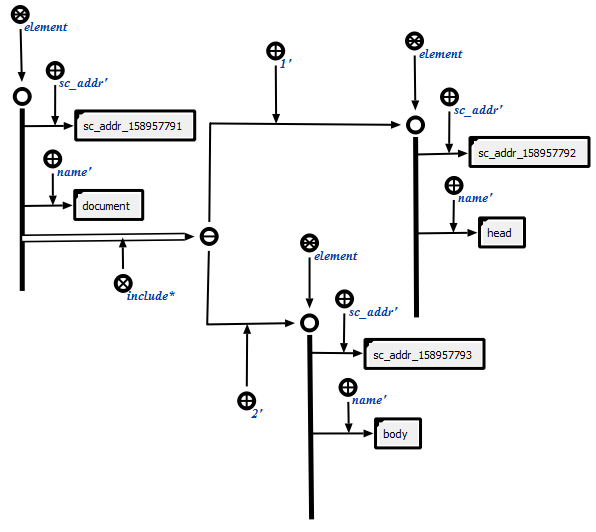
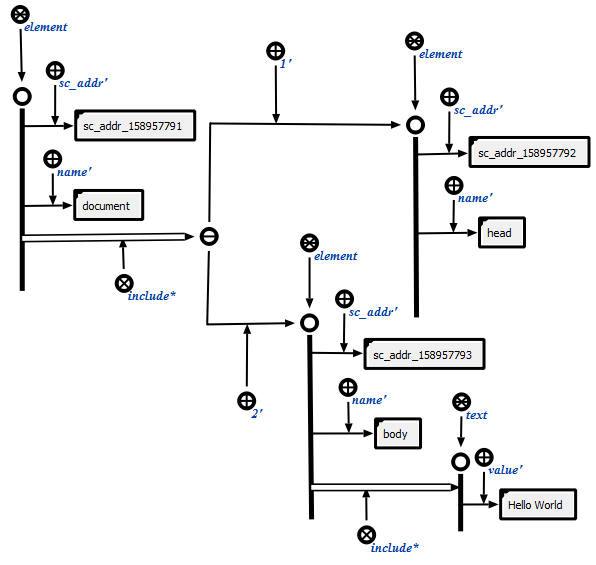
wiki: added example-2

diff --git a/wiki/example-1/1.html b/wiki/example-1/1.html
@@ -1,5 +1,5 @@
 <!DOCTYPE html>
 <html id="sc_addr_158957791">
     <head id="sc_addr_158957792"></head>
-    <body id="sc_addr_158957793"></body>
+    <body id="sc_addr_158957793">Hello World</body>
 </html>
